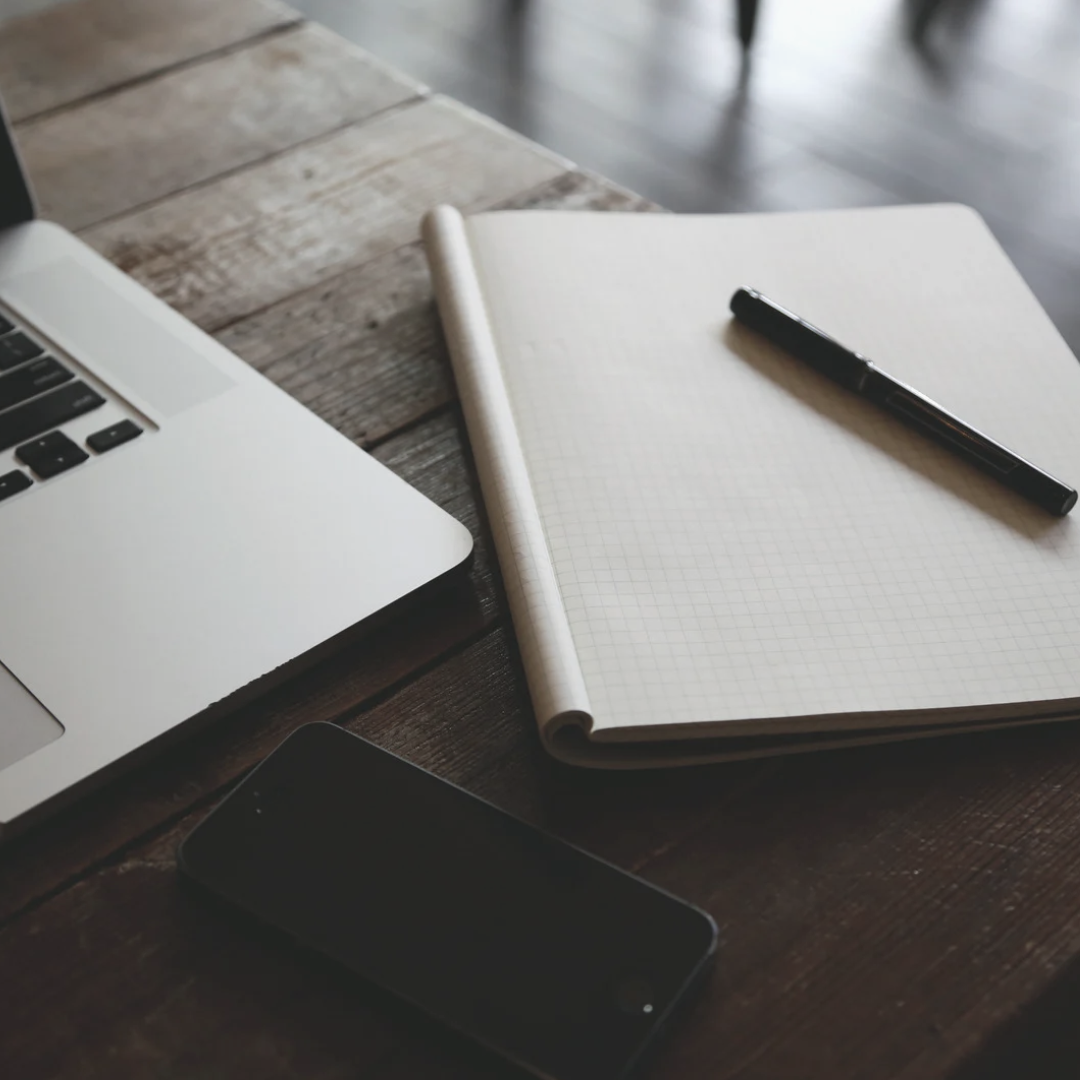
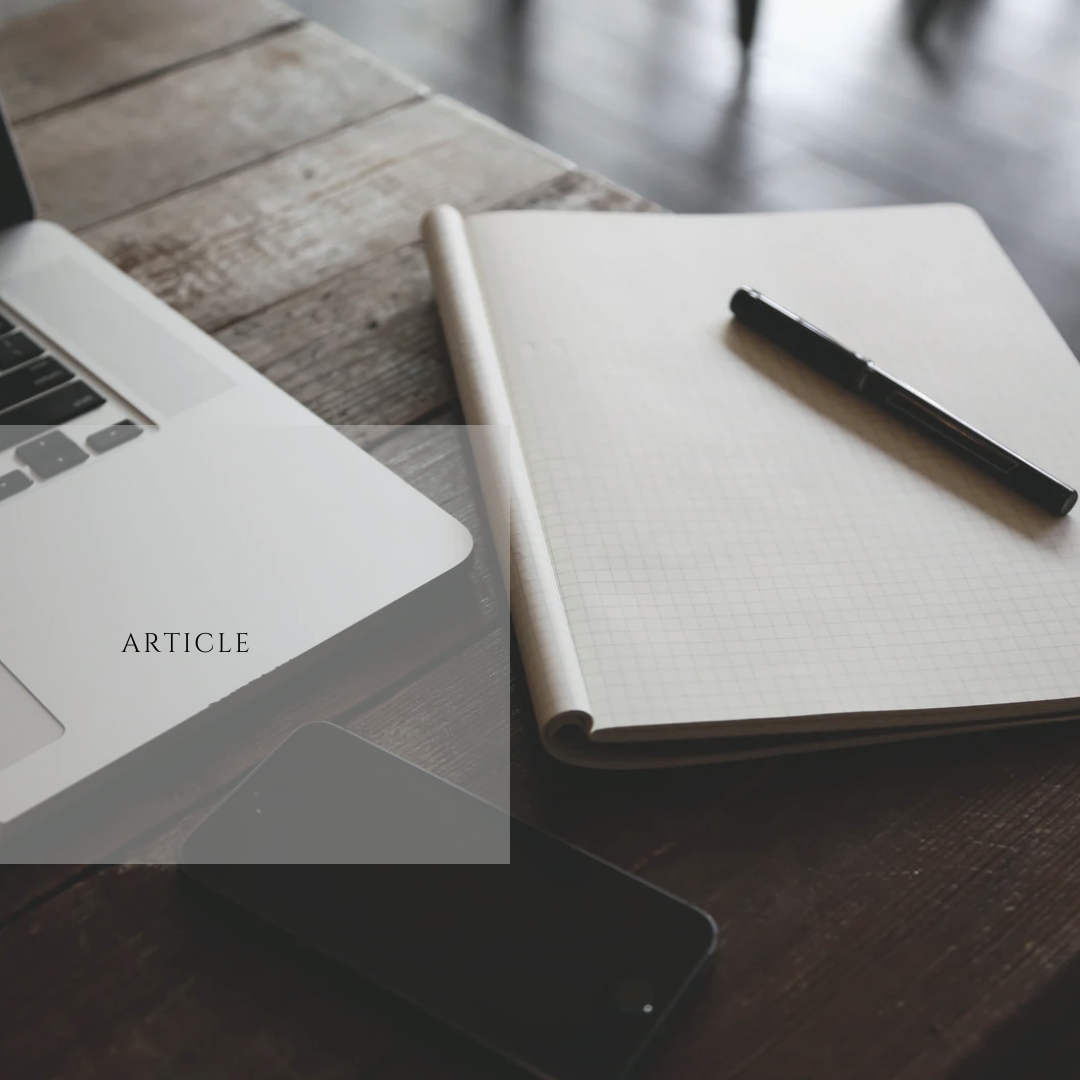
1025-3

Changed region(s): [[0.0, 0.3667, 0.4889, 0.825], [0.0, 0.3667, 0.1222, 0.4583], [0.1222, 0.5806, 0.2139, 0.6111]]

diff --git a/src/styles/Home.module.css b/src/styles/Home.module.css
@@ -21,6 +21,9 @@
     flex-wrap: wrap;
     width: 100%;
 }
+.topImageWrapper {
+    margin: 0 20px;
+}
 .imageContainer {
     position: relative; /* 画像を相対配置 */
     text-align: center;
@@ -157,7 +160,7 @@
         font-size: 12px;
     }
 }
-@media (max-width: 540px) {
+@media (max-width: 555px) {
     .textOverlay {
         top: 25%; /* 画像の縦中央に配置 */
         left: 15%; /* 画像の左側に配置 */
@@ -166,7 +169,7 @@
         font-size: 14px; /* タブレットや中型デバイス用にフォントサイズを縮小 */
     }
     .ellipseBackground {
-        width: 190px;
+        width: 160px;
         height: 90px;
     }
 }
@@ -179,7 +182,7 @@
         font-size: 12px; /* タブレットや中型デバイス用にフォントサイズを縮小 */
     }
     .ellipseBackground {
-        width: 170px;
+        width: 140px;
         height: 70px;
     }
 }
@@ -192,7 +195,7 @@
         font-size: 10px; /* タブレットや中型デバイス用にフォントサイズを縮小 */
     }
     .ellipseBackground {
-        width: 150px;
+        width: 110px;
         height: 50px;
     }
 }
